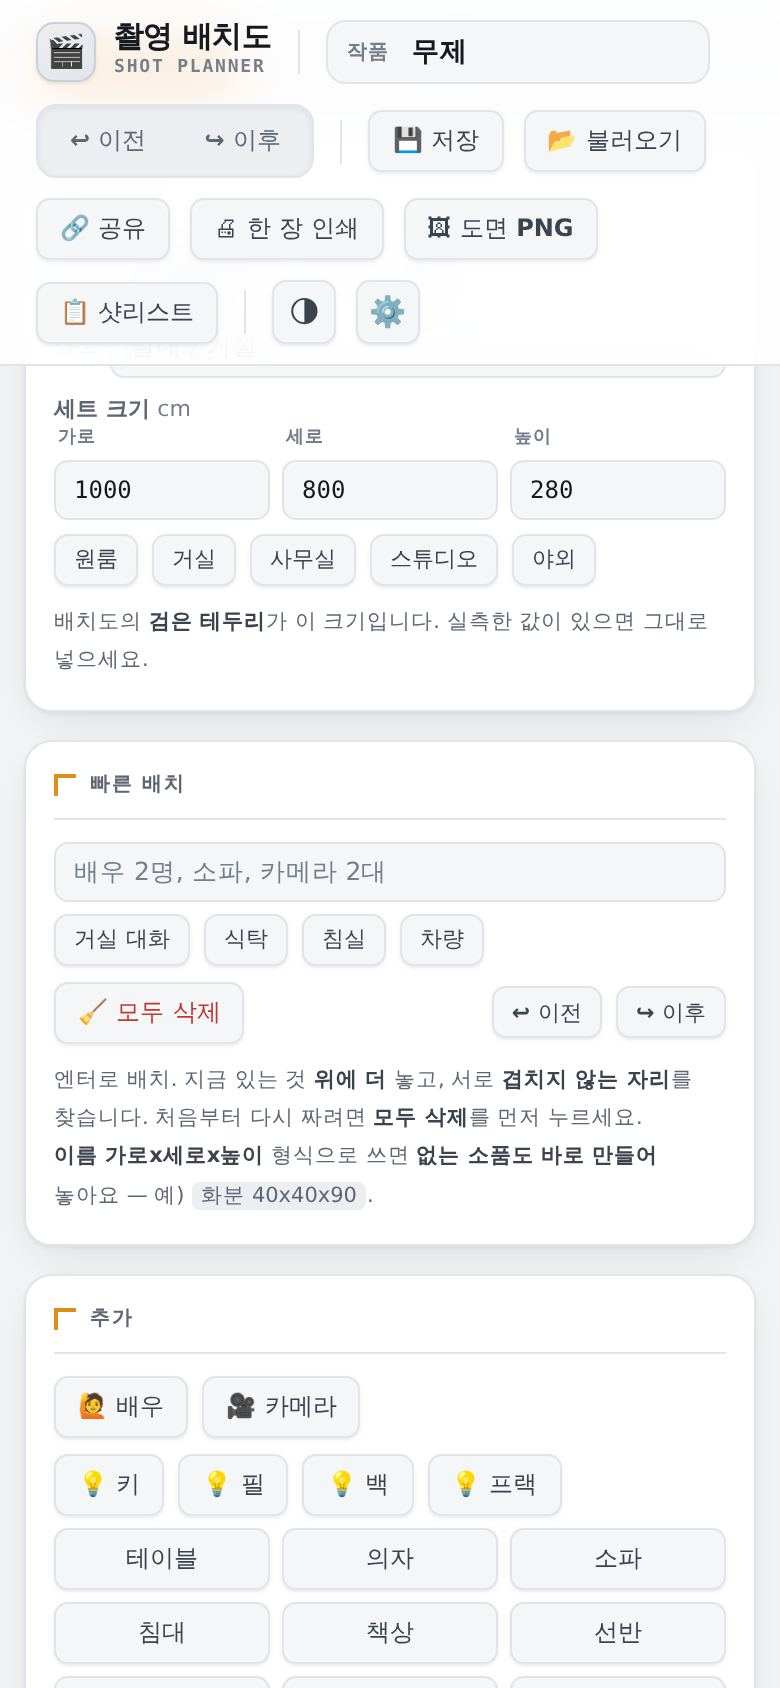
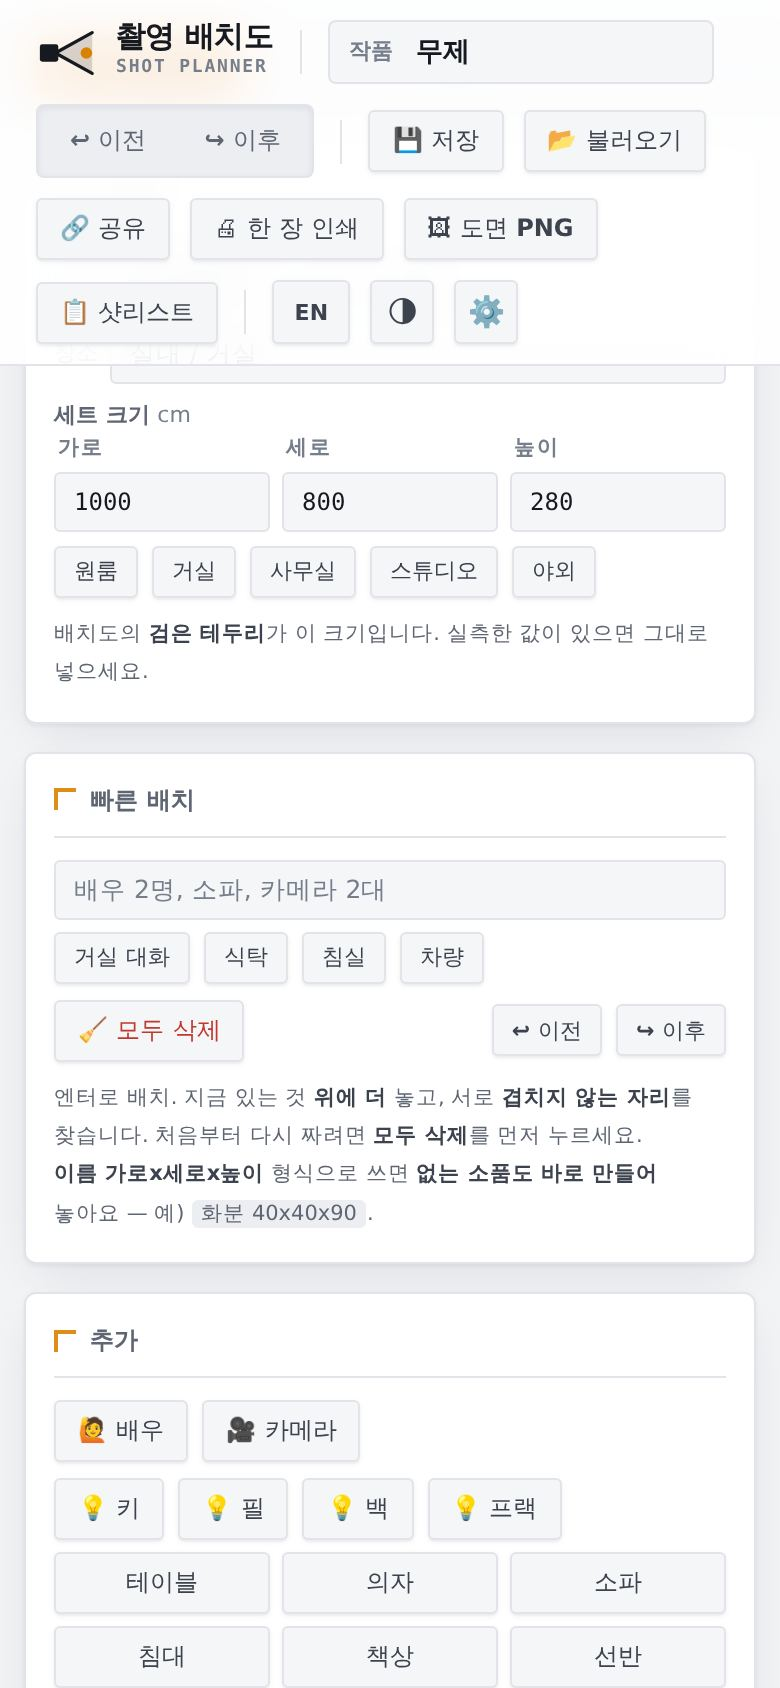
최신 도구에 맞춰 화면과 설명을 갱신
main 을 합쳤다. 씬덱과 촬영 배치도가 그새 많이 바뀌어 있었다.

다시 찍은 것
  세 도구의 창·폰 화면 여섯 장을 새로 찍었다. 누를 곳(«한 줄만 적고 프롬프트만»,
  «배치도 열기», «혼자 하기»)은 그대로여서 capture-shots.mjs 는 안 고쳤다.

설명을 맞춘 것
  · 씬덱에 문서 다섯 편이 생겼다 — 특징 줄에 넣고, 바닥글에도 걸었다
  · 촬영 배치도에 KO/EN 전환이 붙었다 — 특징 줄에 넣었다
  · «쓰는 글» 절을 두 장에서 세 장으로. 씬덱 문서를 맨 앞에 뒀다.
    운영 사이트가 가진 제 글이 남의 채널보다 앞에 오는 게 맞다

sitemap.xml
  main 쪽 것을 취했다 — 주석에 «robots.txt 는 도메인 루트만 읽히므로 여기 두면
  소용없고, 사이트맵 주소를 서치 콘솔에 직접 내면 된다»는 설명이 붙어 있다.
  다만 뿌리는 이제 촬영 배치도가 아니라 브랜드 홈이므로 priority 를 1.0 으로 올리고,
  젤리슈팅을 한 줄 더했다.

확인한 것
  · 390 · 768 · 1440 세 폭에서 가로 넘침 없음, 누를 곳 모두 40px 이상
  · 대비 미달 없음
  · 글자수 세기: "안녕 하세요\n둘째 줄" → 11 / 8 / 4 / 2

Claude-Session: https://claude.ai/code/session_014XAjMJmFVNqyzGbDLiWsAd

diff --git a/index.html b/index.html
@@ -486,6 +486,7 @@ footer .fine{grid-column:1 / -1;border-top:1px solid var(--hair);padding-top:20p
             <li>샷 · 앵글 · 렌즈 · 조명을 <b>알아서 채워 줍니다</b></li>
             <li>인물 생김새를 고정해 둬서 <b>컷마다 딴 사람이 안 됩니다</b></li>
             <li>브라우저에 저장돼요. 서버로 안 보냅니다</li>
+            <li>막힐 때 보라고 <b>문서 다섯 편</b>도 같이 써 뒀습니다</li>
           </ul>
           <a class="btn btn-fill" href="scenedeck/">열어 보기 <span class="arw">→</span></a>
         </div>
@@ -513,6 +514,7 @@ footer .fine{grid-column:1 / -1;border-top:1px solid var(--hair);padding-top:20p
             <li>소품을 옮기면 벽이나 옆 물건에 <b>딱 붙습니다</b></li>
             <li>렌즈 화각을 실제로 그려서 <b>프레임에 들어오는지</b> 확인</li>
             <li>인쇄해서 현장에 가져가거나 링크로 넘겨도 돼요</li>
+            <li>오른쪽 위 <b>EN</b> 을 누르면 영어로 바뀝니다</li>
           </ul>
           <a class="btn btn-fill" href="shot-planner/">열어 보기 <span class="arw">→</span></a>
         </div>
@@ -622,9 +624,16 @@ footer .fine{grid-column:1 / -1;border-top:1px solid var(--hair);padding-top:20p
     <div class="col">
       <p class="eyebrow">Notes</p>
       <h2>만들면서 알게 된 건<br><em>여기에 씁니다</em></h2>
-      <p class="lede">도구 얘기만 하진 않아요. 어디가 먼저 뜨는지, 콘텐츠가 왜 되는지 같은 것들.</p>
+      <p class="lede">쓰다 막혔던 것들을 정리해 둡니다. AI로 영상 만들 때 실제로 부딪치는 것, 그리고 콘텐츠가 왜 되는지 같은 것들.</p>
 
-      <div class="cards two-up">
+      <div class="cards">
+        <a class="card" href="scenedeck/docs/">
+          <p class="label"><i></i>문서</p>
+          <h3>씬덱 문서</h3>
+          <p class="en">DOCS · 다섯 편</p>
+          <p>1940년대 조선의 옷과 색, 미드저니가 막을 때 연출로 피하는 법, 프롬프트가 길면 왜 안 나오는지. 실제로 겪은 것만 적었어요.</p>
+          <span class="go">읽어 보기 <span class="arw">→</span></span>
+        </a>
         <!-- ④CHANNEL -->
         <a class="card" href="https://blog.naver.com/bap-pul" target="_blank" rel="noopener">
           <p class="label"><i></i>글</p>
@@ -680,6 +689,7 @@ footer .fine{grid-column:1 / -1;border-top:1px solid var(--hair);padding-top:20p
       <div>
         <h4>이 사이트</h4>
         <ul>
+          <li><a href="scenedeck/docs/">씬덱 문서</a></li>
           <li><a href="#brand">이건 지킵니다</a></li>
           <li><a href="#channels">쓰는 글</a></li>
           <li><a href="mailto:yellow8227@naver.com">메일 주기</a></li>
